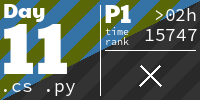
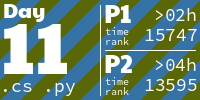
2024 day11 add solution part 2

diff --git a/Solutions/2024/Day11/Day11 - part2.py b/Solutions/2024/Day11/Day11 - part2.py
@@ -1,0 +1,40 @@
+from Helper import *
+from collections import Counter, defaultdict
+
+result = 0
+
+#here we keep the count of the stones and store that
+#I was struggling to get the structure correct and didn't want to loose too much time today, so Reddit helped me.
+#this is not my code, I got it from https://github.com/anviks/AOC/blob/master/2024/day_11/solution.py
+#Thank you for this python lesson!
+def blink(c1: Counter):
+    c2 = defaultdict(int)
+
+    for stone, count in c1.items():
+        if stone == 0:
+            c2[1] += c1[0]
+        elif len(str(stone)) % 2 == 0:
+            s = str(stone)
+            s1, s2 = int(s[:len(s) // 2]), int(s[len(s) // 2:])
+            c2[s1] += c1[stone]
+            c2[s2] += c1[stone]
+        else:
+            c2[stone * 2024] += c1[stone]
+
+    return c2
+
+start_time = initialize()
+result = 0
+
+with open("/workspaces/AdventOfCode/Solutions/2024/Day11/input.txt", "r") as file:
+    matrix = [[int(value) for value in line.split()] for line in file]
+data = matrix[0]
+
+c = Counter(data) #Today I learned about the Counter class
+for _ in range(75):
+    c = blink(c)
+
+result = sum(c.values())
+
+print(result)
+print_runtime(start_time)

diff --git a/README.md b/README.md
@@ -9,7 +9,7 @@ Data is stored in a private repository and can be loaded via
 
 <!-- AOC TILES BEGIN -->
 <h1 align="center">
-  2024 - 21 ⭐ - Smalltalk
+  2024 - 22 ⭐ - Smalltalk
 </h1>
 <a href="ProjectTemplate/SolverPart1.cs">
   <img src=".aoc_tiles/tiles/2024/01.png" width="161px">
